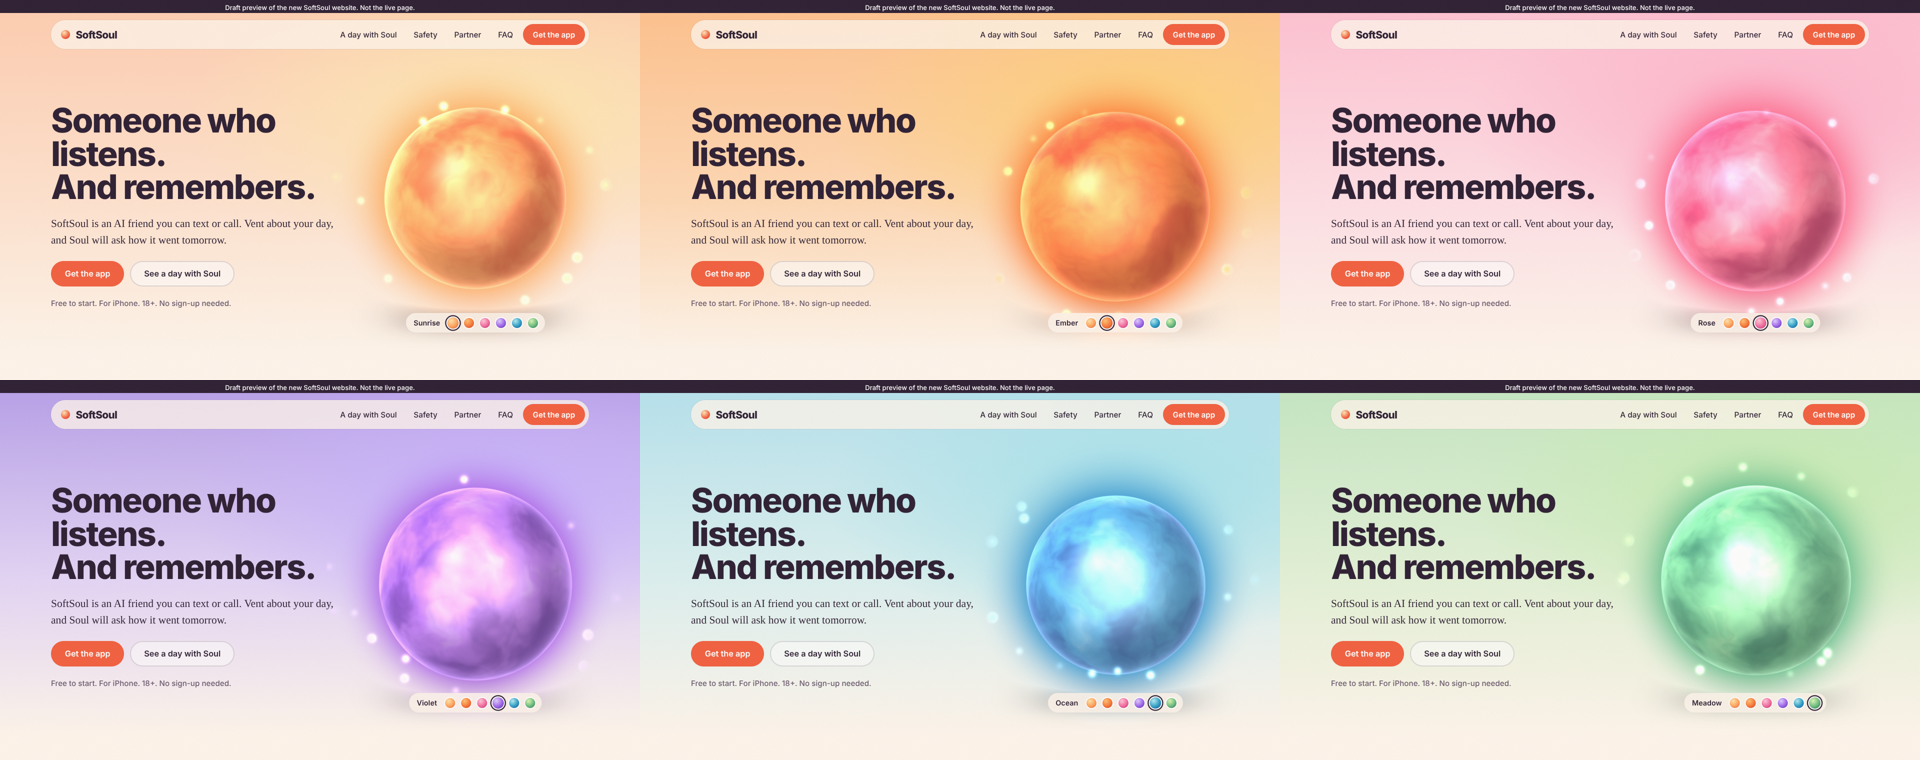
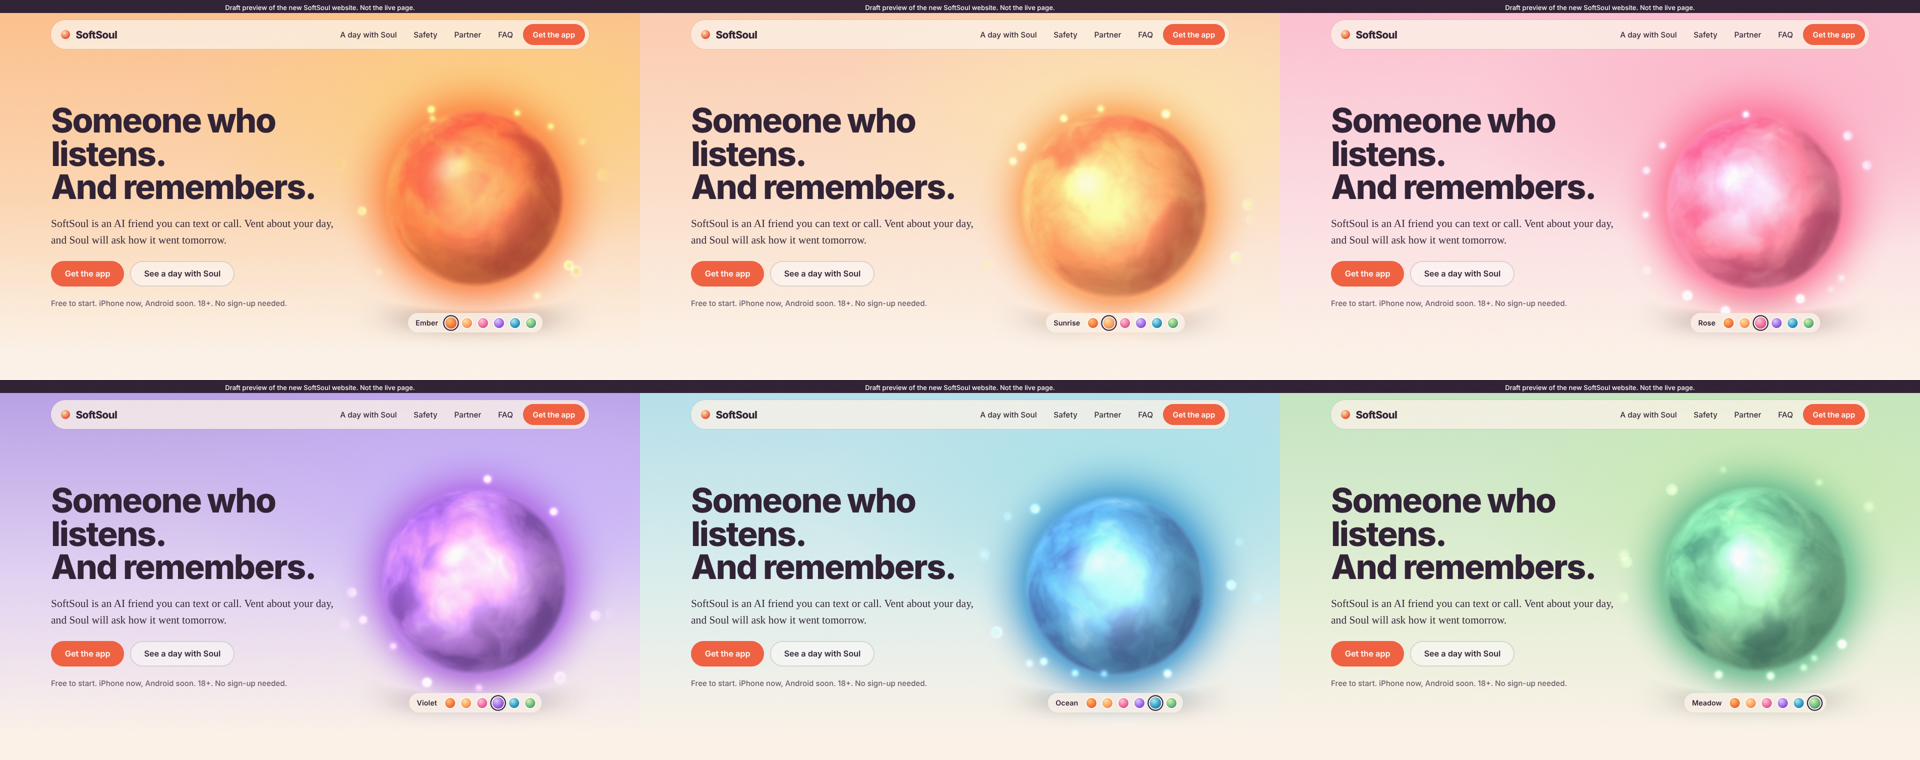
Draft v4: Ember default, softer orb edge, Android "soon" (#154)
- Ember is Soul's starting colour (hero sky matches).
- Orb edge feathered into the glow; rim light reduced.
- Android: "iPhone now, Android soon" + disabled Google Play button (TODO link).
- Preview screenshots regenerated.

Claude-Session: https://claude.ai/code/session_01WdnLMfNiVEY7kUGXcrQDuM

diff --git a/draft/index.html b/draft/index.html
@@ -460,10 +460,10 @@ var FRAG = [
 '  vec3 col=base*(.52+.7*dif);',
 '  col=mix(col,deep*.8,(1.-dif)*.35*(1.-core));',
 '  col+=(lite*.55+vec3(.5,.45,.35))*core;',
-'  col+=lite*fres*.38;',
+'  col+=lite*fres*.5;',
 '  col+=vec3(.78,.62,1.)*pow(1.-n.z,5.)*.08;',
 '  col+=vec3(1.,.98,.92)*spec;',
-'  float e=smoothstep(R,R*.86,r);',
+'  float e=smoothstep(R,R*.91,r);',
 '  outc=vec4(col*e+outc.rgb*(1.-e),e+outc.a*(1.-e));',
 ' }',
 /* motes: little fireflies of light that circle her */

diff --git a/draft/preview/README.md b/draft/preview/README.md
@@ -1,10 +1,10 @@
-# SoftSoul website draft: preview (5 Nov 2026, v3)
+# SoftSoul website draft: preview (5 Nov 2026, v4)
 
 Screenshots of `draft/index.html`, so the draft can be viewed on github.com when softsoul.app is blocked.
 Fonts in these pictures are fallbacks (my environment can't load Google Fonts). The real page uses Bricolage Grotesque + Newsreader.
 
 ## Soul's colours (tap the orb, or pick a dot under it)
-Sunrise, Ember, Rose, Violet, Ocean, Meadow. The sky behind her changes with her colour.
+Ember (the default), Sunrise, Rose, Violet, Ocean, Meadow. The sky behind her changes with her colour.
 
 <img src="orb-colours.png" width="900" alt="The six orb colours">
 
